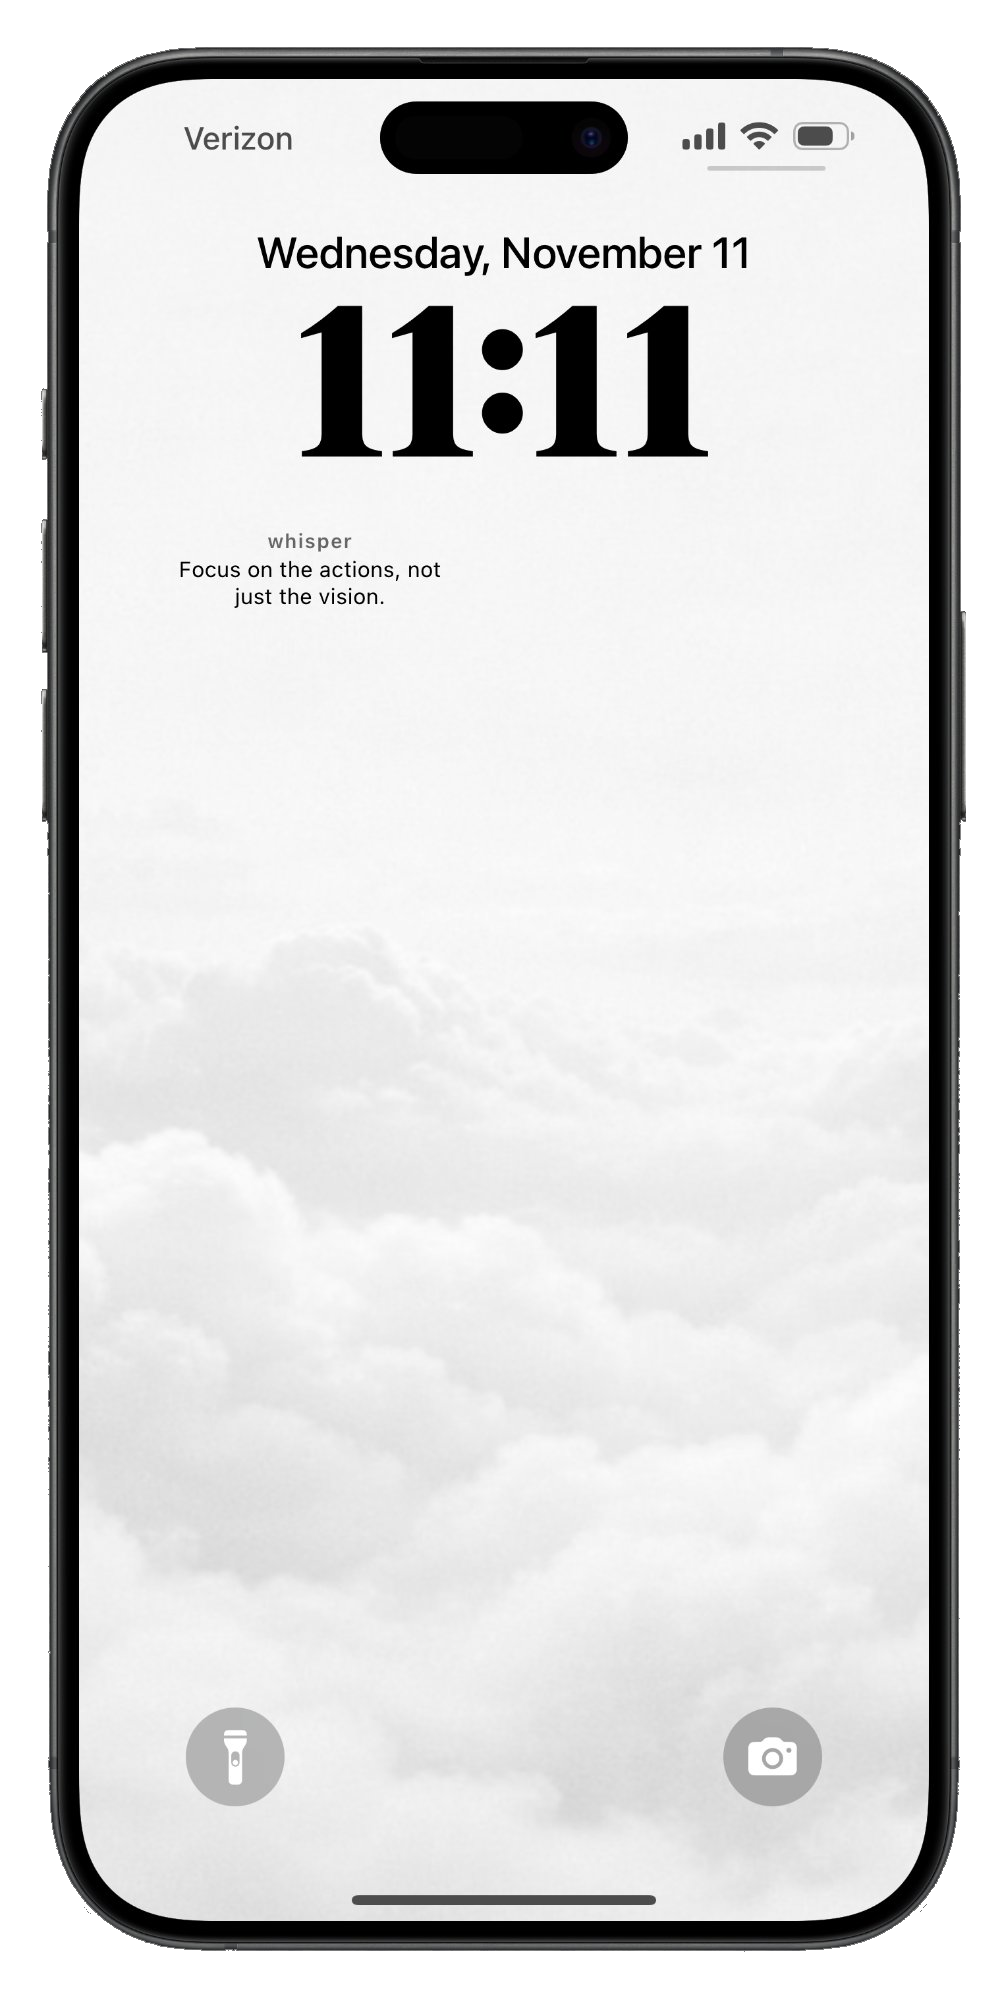
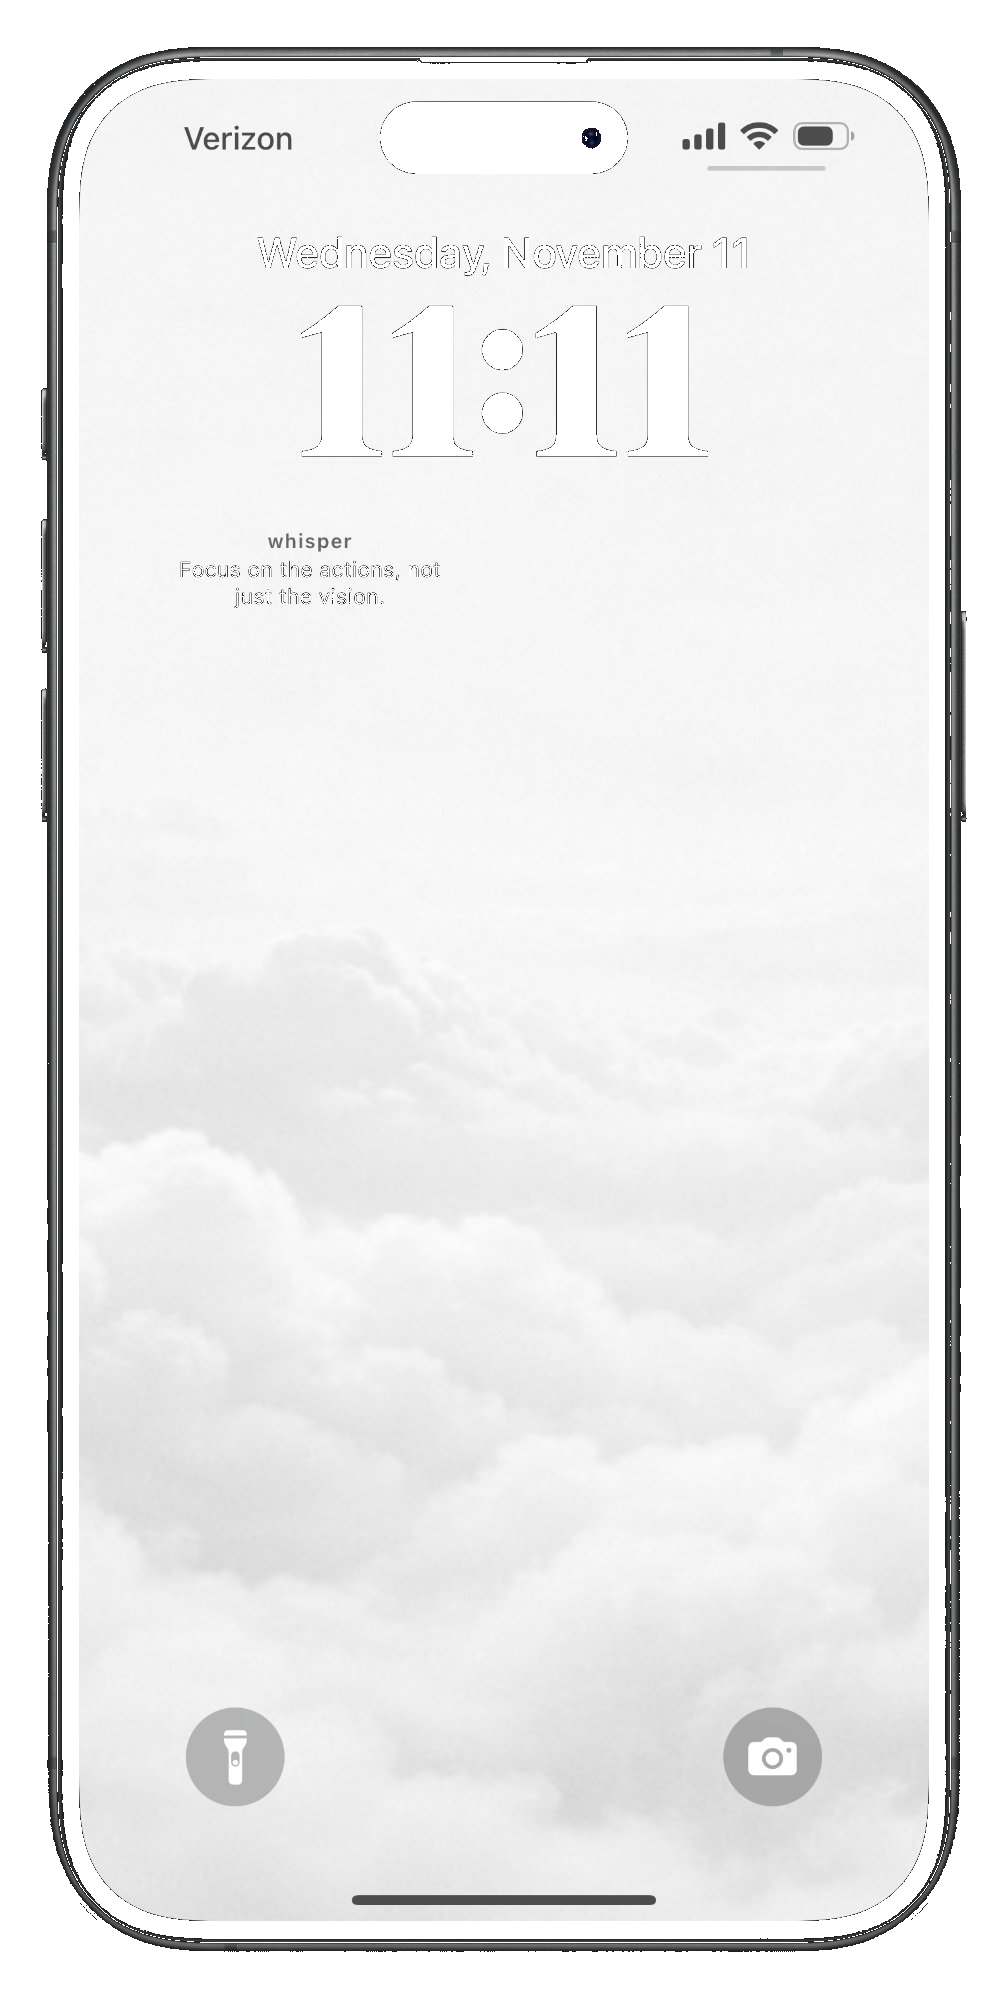
replace phone mockup with transparent background version
Converted the JPEG mockup (which had a black background behind the
phone device) to a proper PNG with transparent background. This
eliminates the black background issue entirely.

Simplified the mockup CSS — no more zoom/crop hacks needed since
the background is now transparent.

https://claude.ai/code/session_014gyZmFzzN7pJGWKgshgent

Changed region(s): [[0.0308, 0.031, 0.9543, 0.992], [0.2771, 0.124, 0.708, 0.248]]

diff --git a/src/pages/Whisper.tsx b/src/pages/Whisper.tsx
@@ -54,14 +54,14 @@ const Whisper = () => {
           </div>
         </div>
 
-        {/* iPhone Mockup — crops into screen content, hiding black image background */}
-        <div className="relative z-10 mt-12 md:mt-16 w-[260px] md:w-[300px] lg:w-[340px] h-[200px] md:h-[240px] lg:h-[280px] rounded-[3rem] overflow-hidden">
+        {/* iPhone Mockup */}
+        <div className="relative z-10 mt-12 md:mt-16 w-full max-w-[300px] md:max-w-[340px] lg:max-w-[380px]">
           <img
             src={whisperMockup}
             alt="Whisper app on iPhone"
-            className="absolute -top-[16%] -left-[20%] w-[140%] max-w-none h-auto"
+            className="w-full h-auto"
           />
-          <div className="absolute bottom-0 left-0 right-0 h-2/3 bg-gradient-to-t from-[#F6F1EA] via-[#F6F1EA]/70 via-30% to-transparent pointer-events-none" />
+          <div className="absolute bottom-0 left-0 right-0 h-2/3 bg-gradient-to-t from-[#F6F1EA] via-[#F6F1EA]/80 via-40% to-transparent pointer-events-none" />
         </div>
 
         {/* Gradient fade overlay at the bottom */}
